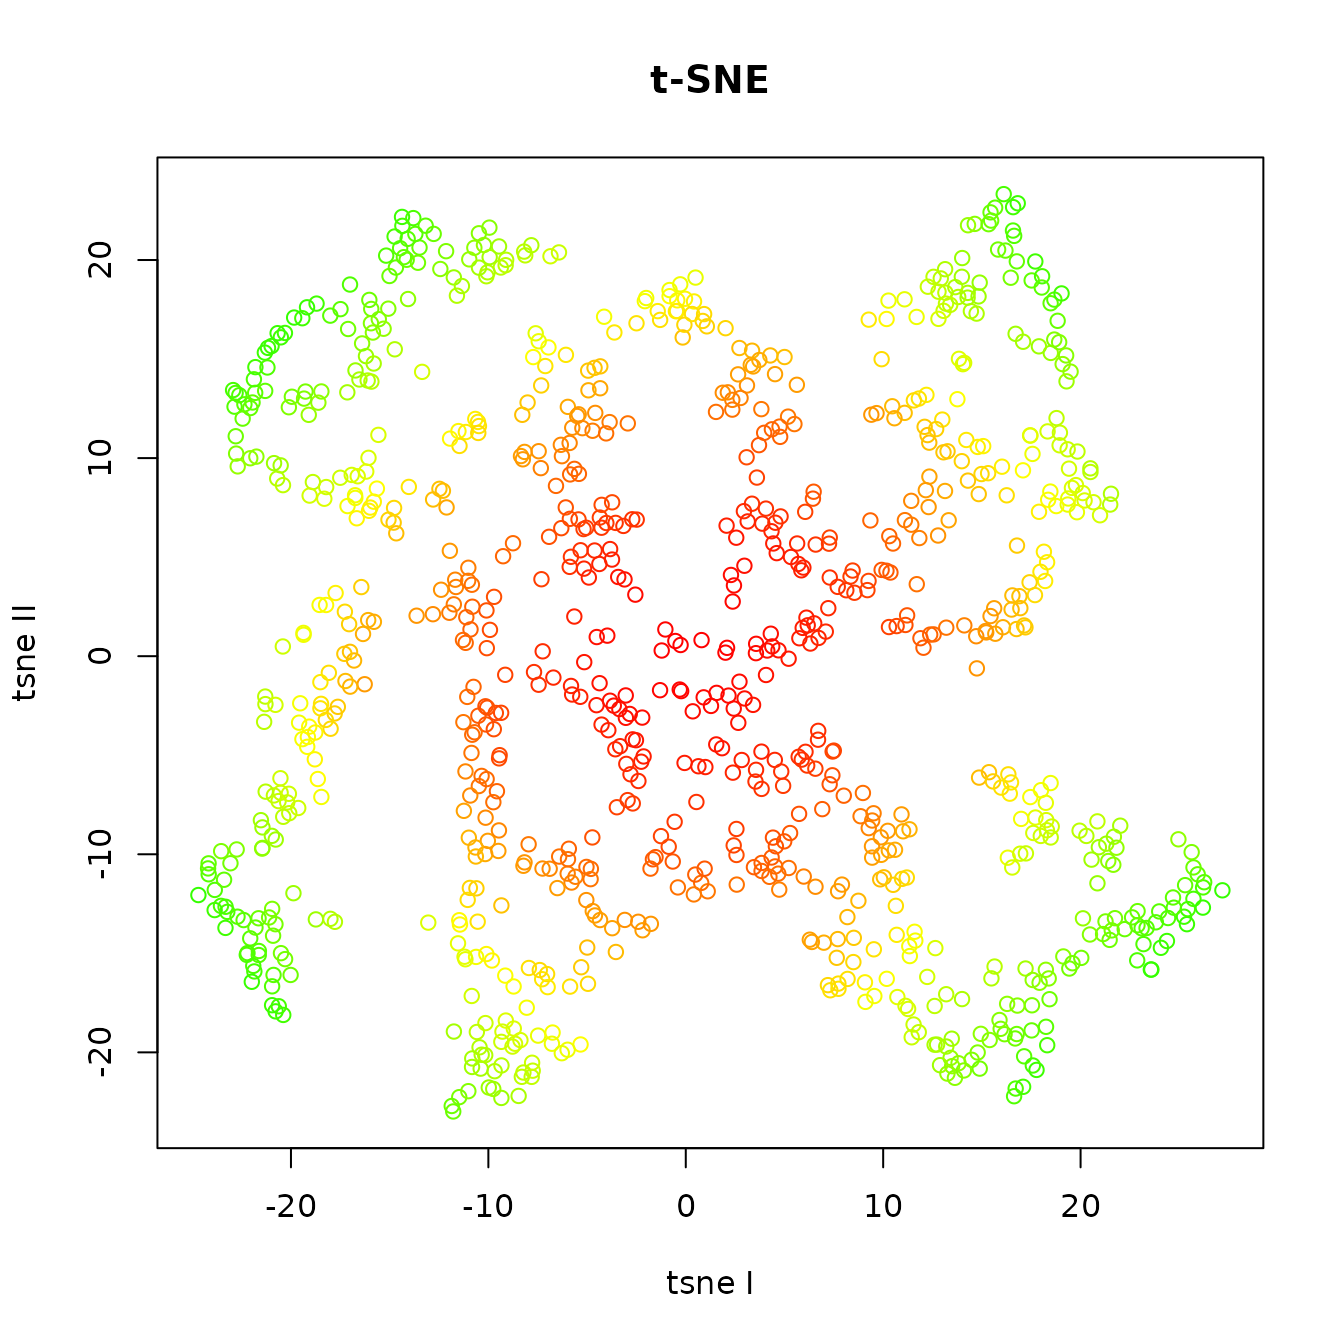
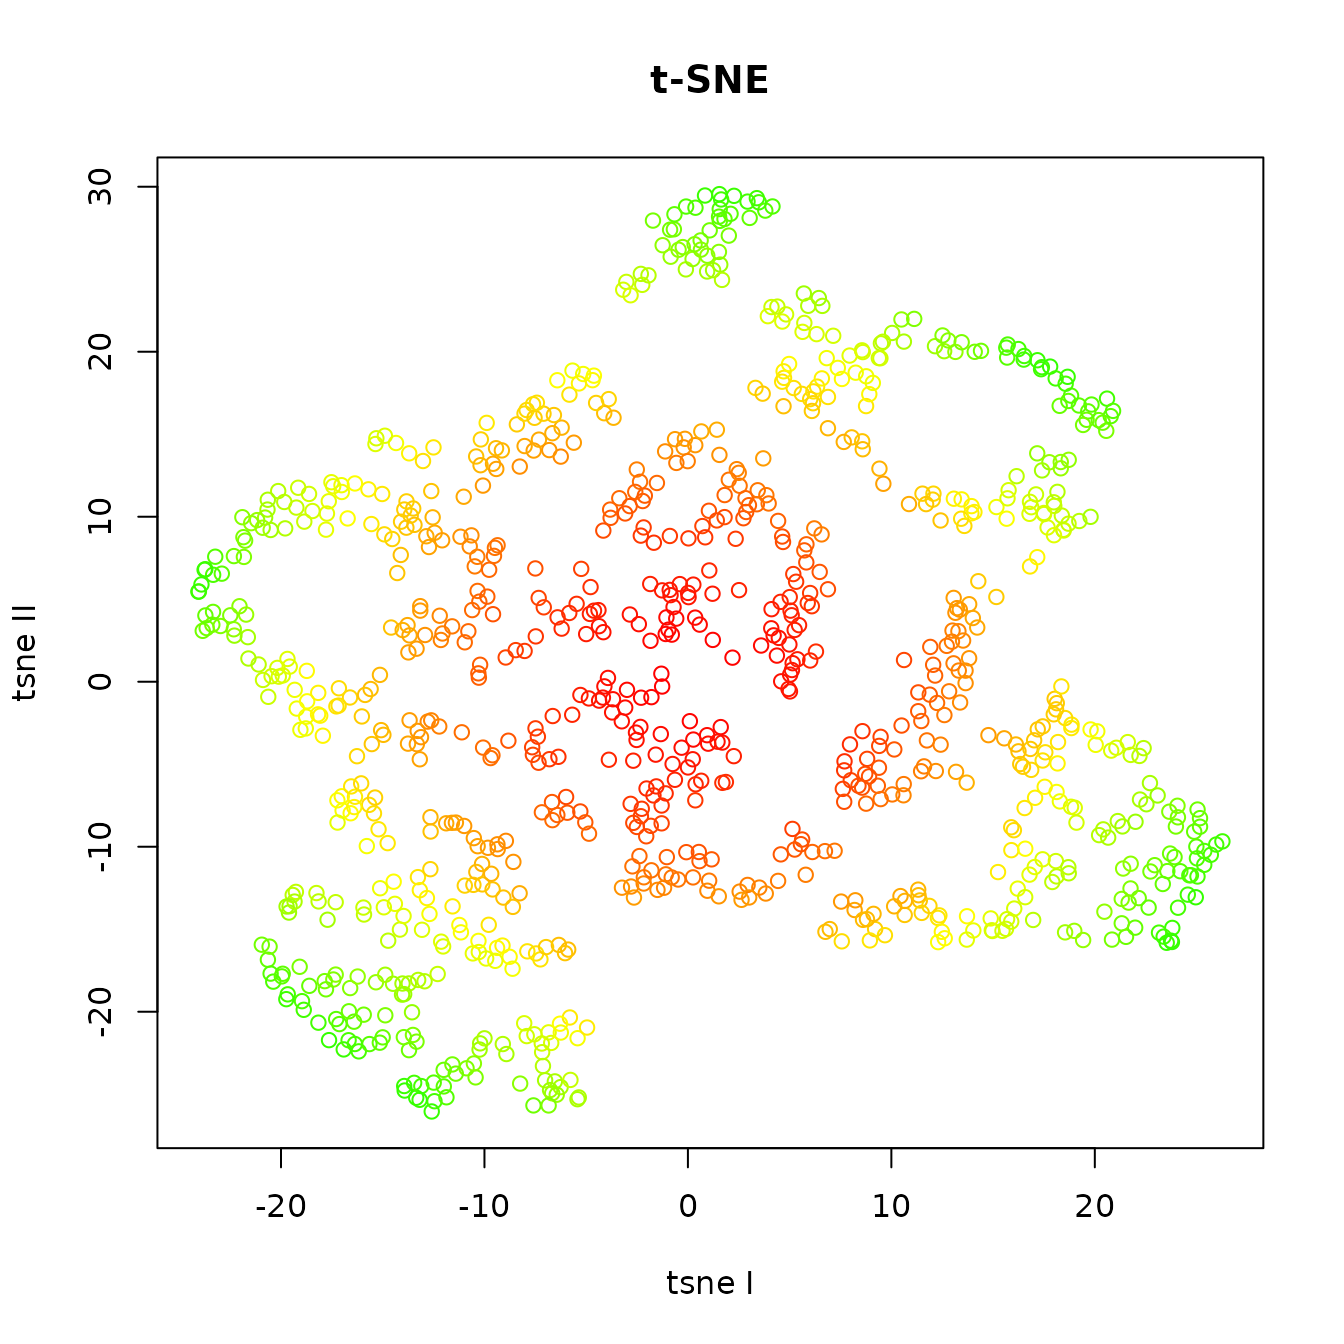
Deploying to gh-pages from @ gdkrmr/coRanking@de2a702a9ab612bc4b6583868750ee83a66f6fbf 🚀

diff --git a/index.html b/index.html
@@ -68,7 +68,7 @@
   <main id="main" class="col-md-9"><div class="section level1">
 <div class="page-header"><h1 id="coranking">coRanking<a class="anchor" aria-label="anchor" href="#coranking"></a>
 </h1></div>
-<p><a href="https://github.com/gdkrmr/DRR/actions/workflows/r.yml" class="external-link"><img src="https://github.com/gdkrmr/DRR/actions/workflows/r.yml/badge.svg" alt="R"></a> <a href="https://app.codecov.io/gh/gdkrmr/coRanking" class="external-link"><img src="https://codecov.io/gh/gdkrmr/coRanking/branch/master/graph/badge.svg?token=vEkHGuhNHQ" alt="codecov"></a> <a href="https://cran.r-project.org/package=coRanking" class="external-link"><img src="https://www.r-pkg.org/badges/version/coRanking" alt="CRAN_Status_Badge"></a> <a href="https://doi.org/10.5281/zenodo.3365908" class="external-link"><img src="https://zenodo.org/badge/DOI/10.5281/zenodo.3365908.svg" alt="DOI"></a></p>
+<p><a href="https://coranking.guido-kraemer.com" class="external-link"><img src="https://img.shields.io/badge/docs-dev-blue.svg" alt="docs"></a> <a href="https://github.com/gdkrmr/DRR/actions/workflows/r.yml" class="external-link"><img src="https://github.com/gdkrmr/DRR/actions/workflows/r.yml/badge.svg" alt="R"></a> <a href="https://app.codecov.io/gh/gdkrmr/coRanking" class="external-link"><img src="https://codecov.io/gh/gdkrmr/coRanking/branch/master/graph/badge.svg?token=vEkHGuhNHQ" alt="codecov"></a> <a href="https://cran.r-project.org/package=coRanking" class="external-link"><img src="https://www.r-pkg.org/badges/version/coRanking" alt="CRAN_Status_Badge"></a> <a href="https://doi.org/10.5281/zenodo.3365908" class="external-link"><img src="https://zenodo.org/badge/DOI/10.5281/zenodo.3365908.svg" alt="DOI"></a></p>
 <p>The Co-Ranking Matrix</p>
 <p>An implementation of the Co-Ranking matrix and derived methods to assess the quality of dimensionality reductions</p>
 <div class="section level2">

diff --git a/articles/coranking.html b/articles/coranking.html
@@ -179,19 +179,19 @@ values right of the maximum.</p>
 <li>
 <em>t-SNE</em>:
 <ul>
-<li><span class="math inline">\(K_\text{max} = 6\)</span></li>
-<li><span class="math inline">\(Q_\text{local} = 0.8400444\)</span></li>
+<li><span class="math inline">\(K_\text{max} = 2\)</span></li>
+<li><span class="math inline">\(Q_\text{local} = 0.8475\)</span></li>
 <li><span class="math inline">\(Q_\text{global} =
-0.8625277\)</span></li>
+0.8697474\)</span></li>
 </ul>
 </li>
 <li>
 <em>PCA</em>:
 <ul>
-<li><span class="math inline">\(K_\text{max} = 46\)</span></li>
-<li><span class="math inline">\(Q_\text{local} = 0.5300354\)</span></li>
+<li><span class="math inline">\(K_\text{max} = 126\)</span></li>
+<li><span class="math inline">\(Q_\text{local} = 0.5740381\)</span></li>
 <li><span class="math inline">\(Q_\text{global} =
-0.8248173\)</span></li>
+0.8537427\)</span></li>
 </ul>
 </li>
 </ul>
